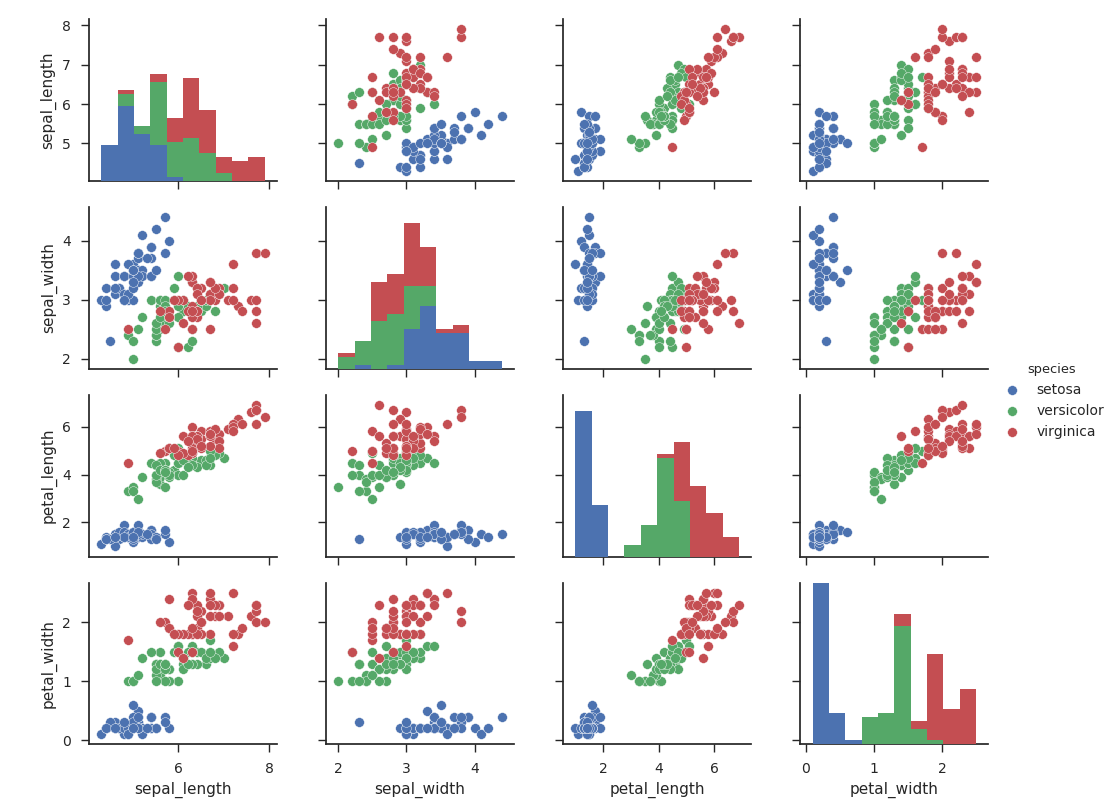
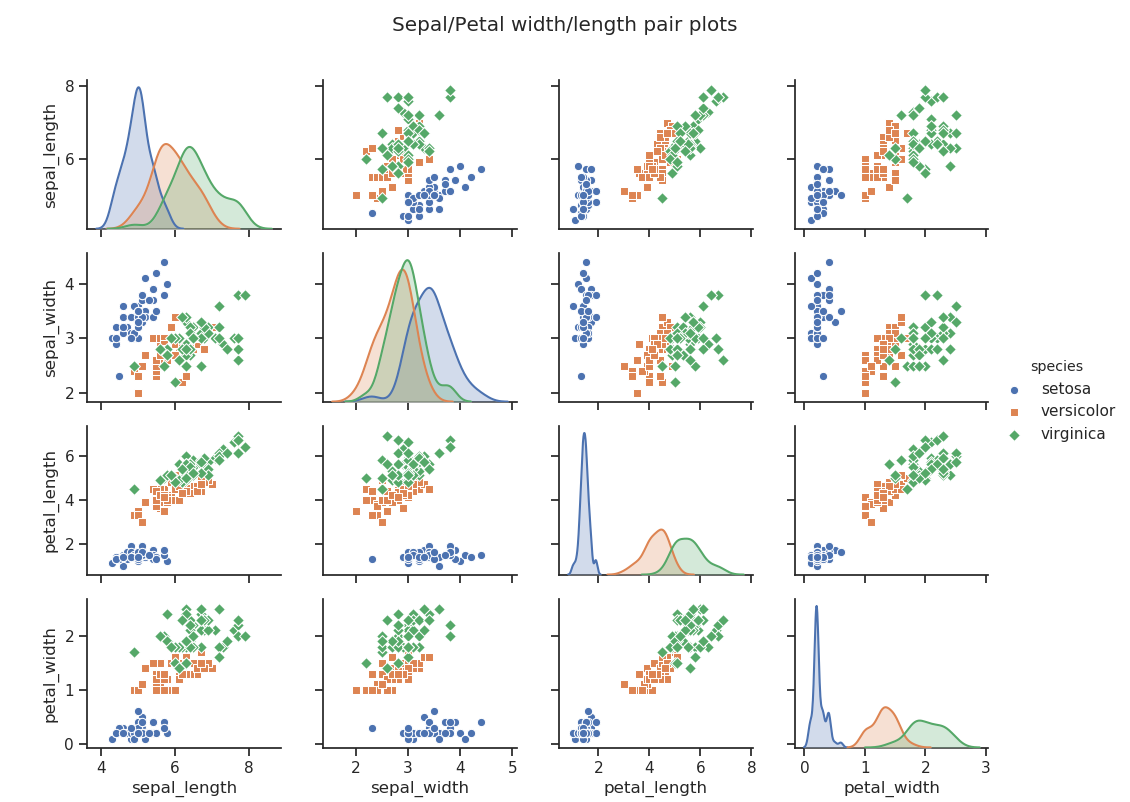
updated the seaborn script and plots

diff --git a/seaborn_iris.py b/seaborn_iris.py
@@ -5,5 +5,20 @@ import matplotlib.pyplot as plot
 
 sns.set(style="ticks")
 dfs = sns.load_dataset("iris")
-sns.pairplot(dfs, hue="species")
+g=sns.pairplot(dfs, hue="species",markers=["o","s","D"])
+g.fig.suptitle("Sepal/Petal width/length pair plots") # Adapted from https://stackoverflow.com/a/49594152
+plot.subplots_adjust(top=0.9) # Adapted from from https://stackoverflow.com/a/29814281
+plot.show()
+
+
+
+#g=sns.relplot(x=dfs.index,y="sepal_length",hue="species",style="species",data=dfs)
+#g.set(xlabel='Index')
+#plot.show()
+
+
+
+f , axes = plot.subplots(1,2)
+sns.relplot(x=dfs.index,y='petal_length',data=dfs,ax=axes[0],hue='species')
+sns.relplot(x=dfs.index,y='sepal_length',data=dfs,ax=axes[1],hue='species')
 plot.show()
